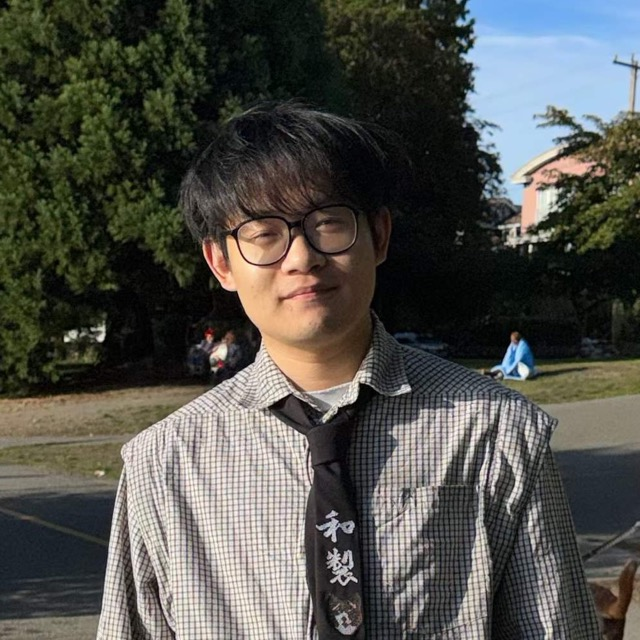
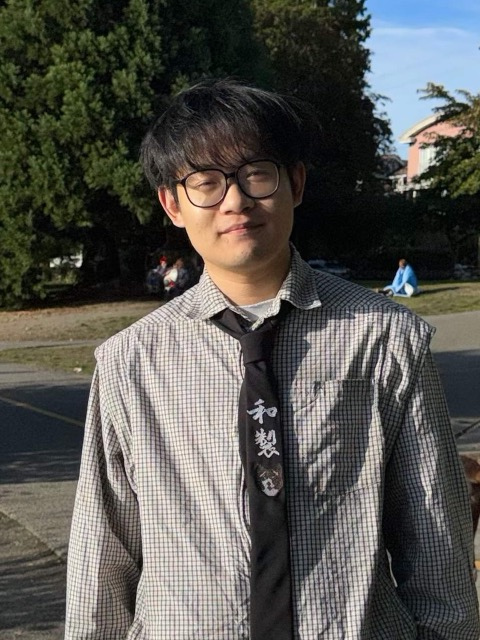
Taller portrait; drop GuideLLM PR links

diff --git a/assets/css/global.css b/assets/css/global.css
@@ -53,7 +53,7 @@ code { font-family: ui-monospace, SFMono-Regular, Menlo, monospace; font-size: 0
 /* profile */
 .profile { display: flex; flex-wrap: wrap; gap: 32px; align-items: flex-start; }
 .profile-photo { flex: 0 0 168px; }
-.portrait { width: 168px; height: 168px; object-fit: cover; border-radius: 10px; display: block; }
+.portrait { width: 168px; height: 224px; object-fit: cover; border-radius: 10px; display: block; }
 .portrait-caption { font-size: 12px; color: var(--muted); margin-top: 6px; }
 .profile-content { flex: 1 1 420px; min-width: 0; }
 .name { font: 700 36px/1.2 var(--sans); margin: 0 0 2px; }
@@ -169,7 +169,7 @@ a.mascot, a.mascot:hover { border: 2px solid var(--accent); }
 @media (max-width: 640px) {
   .container { padding-top: 56px; }
   .profile-photo { flex-basis: 120px; }
-  .portrait { width: 120px; height: 120px; }
+  .portrait { width: 120px; height: 160px; }
   .name { font-size: 26px; }
   .news-section { grid-template-columns: 1fr; gap: 0 0; }
   .news-date { margin-top: 10px; }
